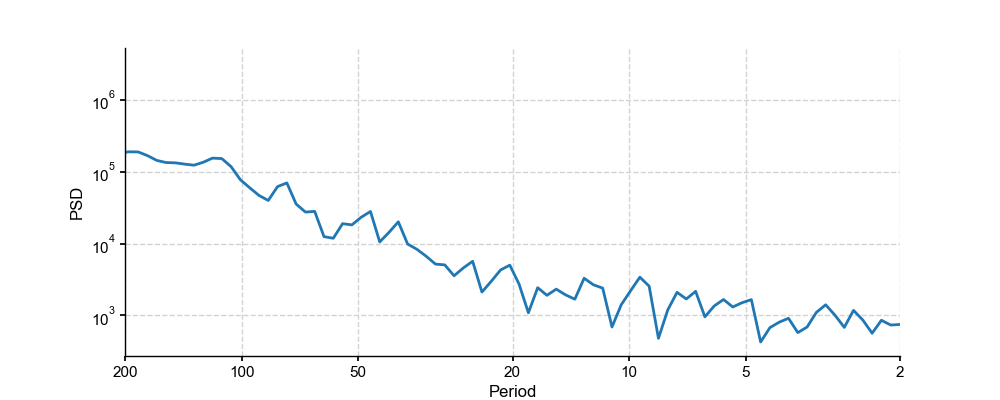
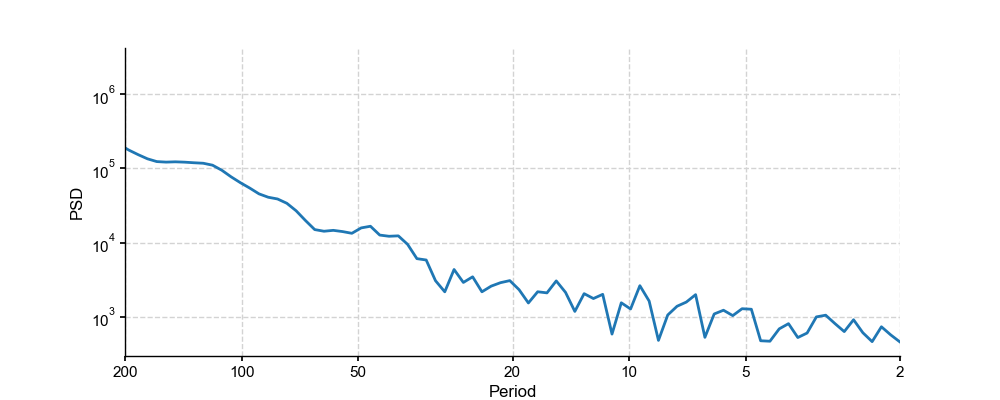
spectral + doc

Changed region(s): [[0.093, 0.36, 0.899, 0.87], [0.744, 0.6, 0.899, 0.63], [0.093, 0.21, 0.124, 0.27]]

diff --git a/pyleoclim/utils/spectral.py b/pyleoclim/utils/spectral.py
@@ -406,7 +406,10 @@ def lomb_scargle(ys, ts, freq=None, freq_method='lomb_scargle',
     # divide into segments
     nseg=int(np.floor(2*len(ts)/(n50+1)))
     index=np.array(np.arange(0,len(ts),nseg/2),dtype=int)
-    index=np.append(index,len(ts)) #make it ends at the time series
+    if len(index) == n50+2:
+        index[-1] = len(ts)
+    else:
+        index=np.append(index,len(ts)) #make it ends at the time series
 
     ts_seg=[]
     ys_seg=[]
@@ -442,7 +445,7 @@ def lomb_scargle(ys, ts, freq=None, freq_method='lomb_scargle',
         scale = len(ts_seg[idx])*2*np.mean(np.diff(ts_seg[idx]))/((win*win).sum())
         psd_seg.append(signal.lombscargle(ts_seg[idx],
                                           item*win,
-                                          freq_angular)*scale)
+                                          freq_angular,precenter=True)*scale)
     # average them up
     if average=='mean':
         psd=np.mean(psd_seg,axis=0)

diff --git a/doc_build/core/ui.rst b/doc_build/core/ui.rst
@@ -10,6 +10,13 @@ These situations are described in classes, the beauty of which is called "inheri
 A major advantage of object-oriented design is that you, the user, can harness the power of Pyleoclim methods in very few lines of code through the user interface (UI) without ever having to get your hands dirty with our code (unless you want to, of course).
 The flipside is that any user would do well to understand Pyleoclim classes, what they are intended for, and what methods they can and cannot support.
 
+.. image:: Pyleoclim_UI.png
+   :width: 1477px
+   :height: 946px
+   :scale: 80 %
+   :alt: The Pyleoclim UI. Credit: Feng Zhu
+   :align: center
+
 The following describes the various classes that undergird the Pyleoclim edifice.
 
 Series (pyleoclim.Series)
